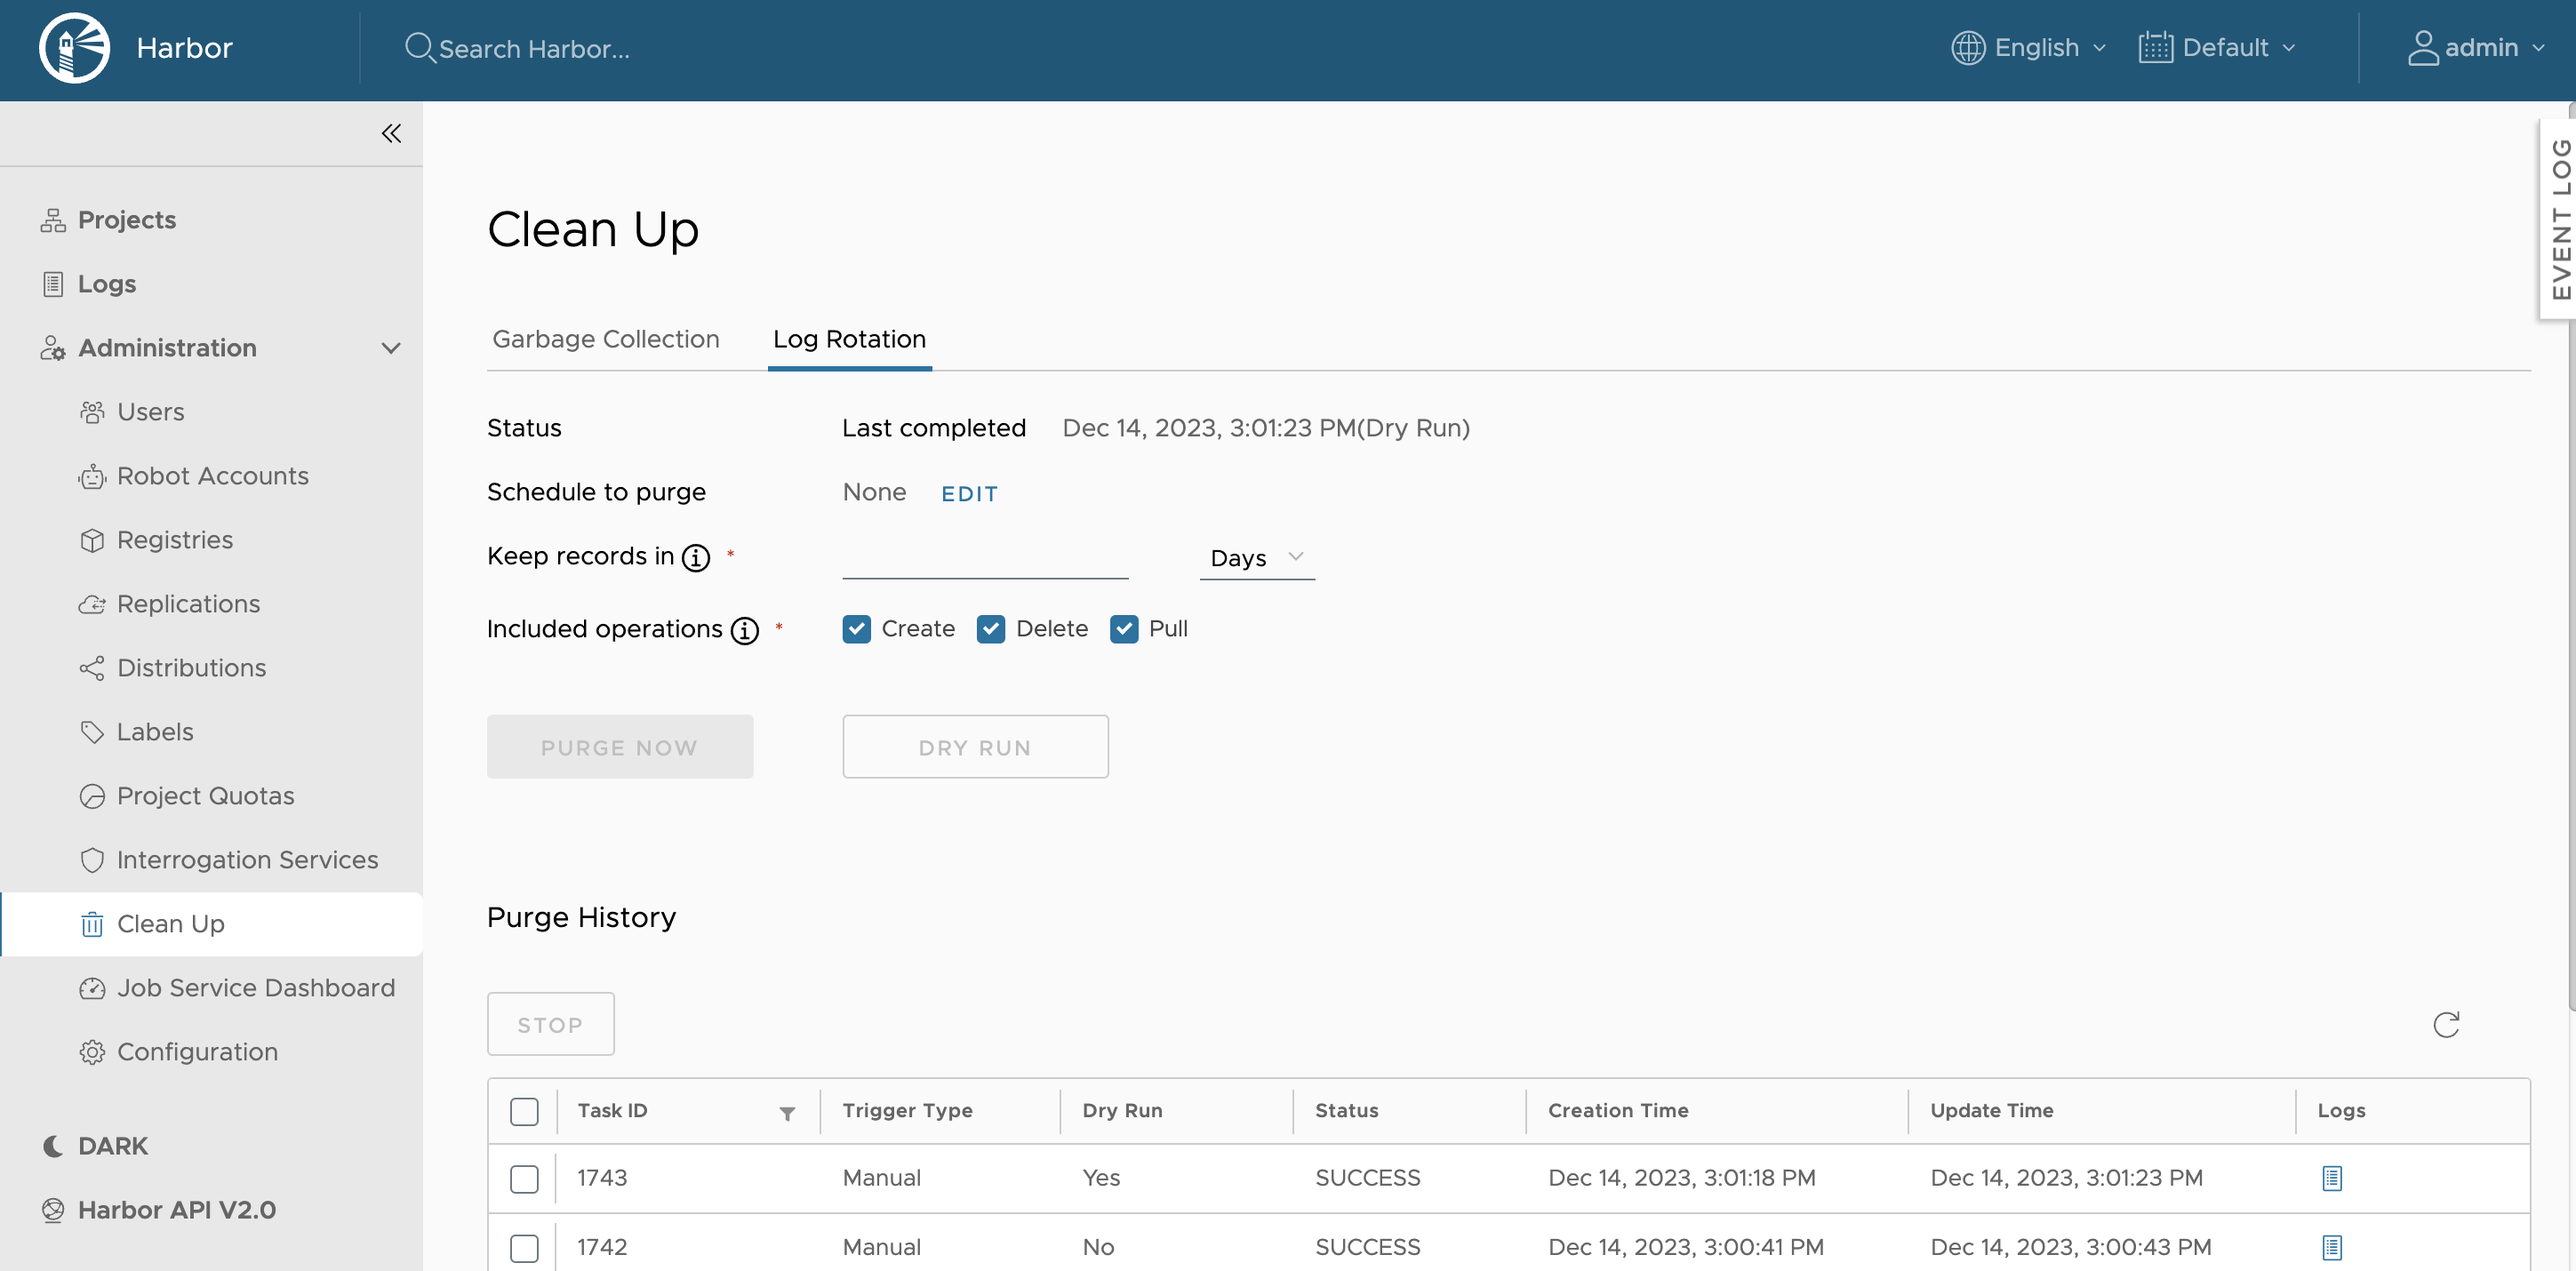
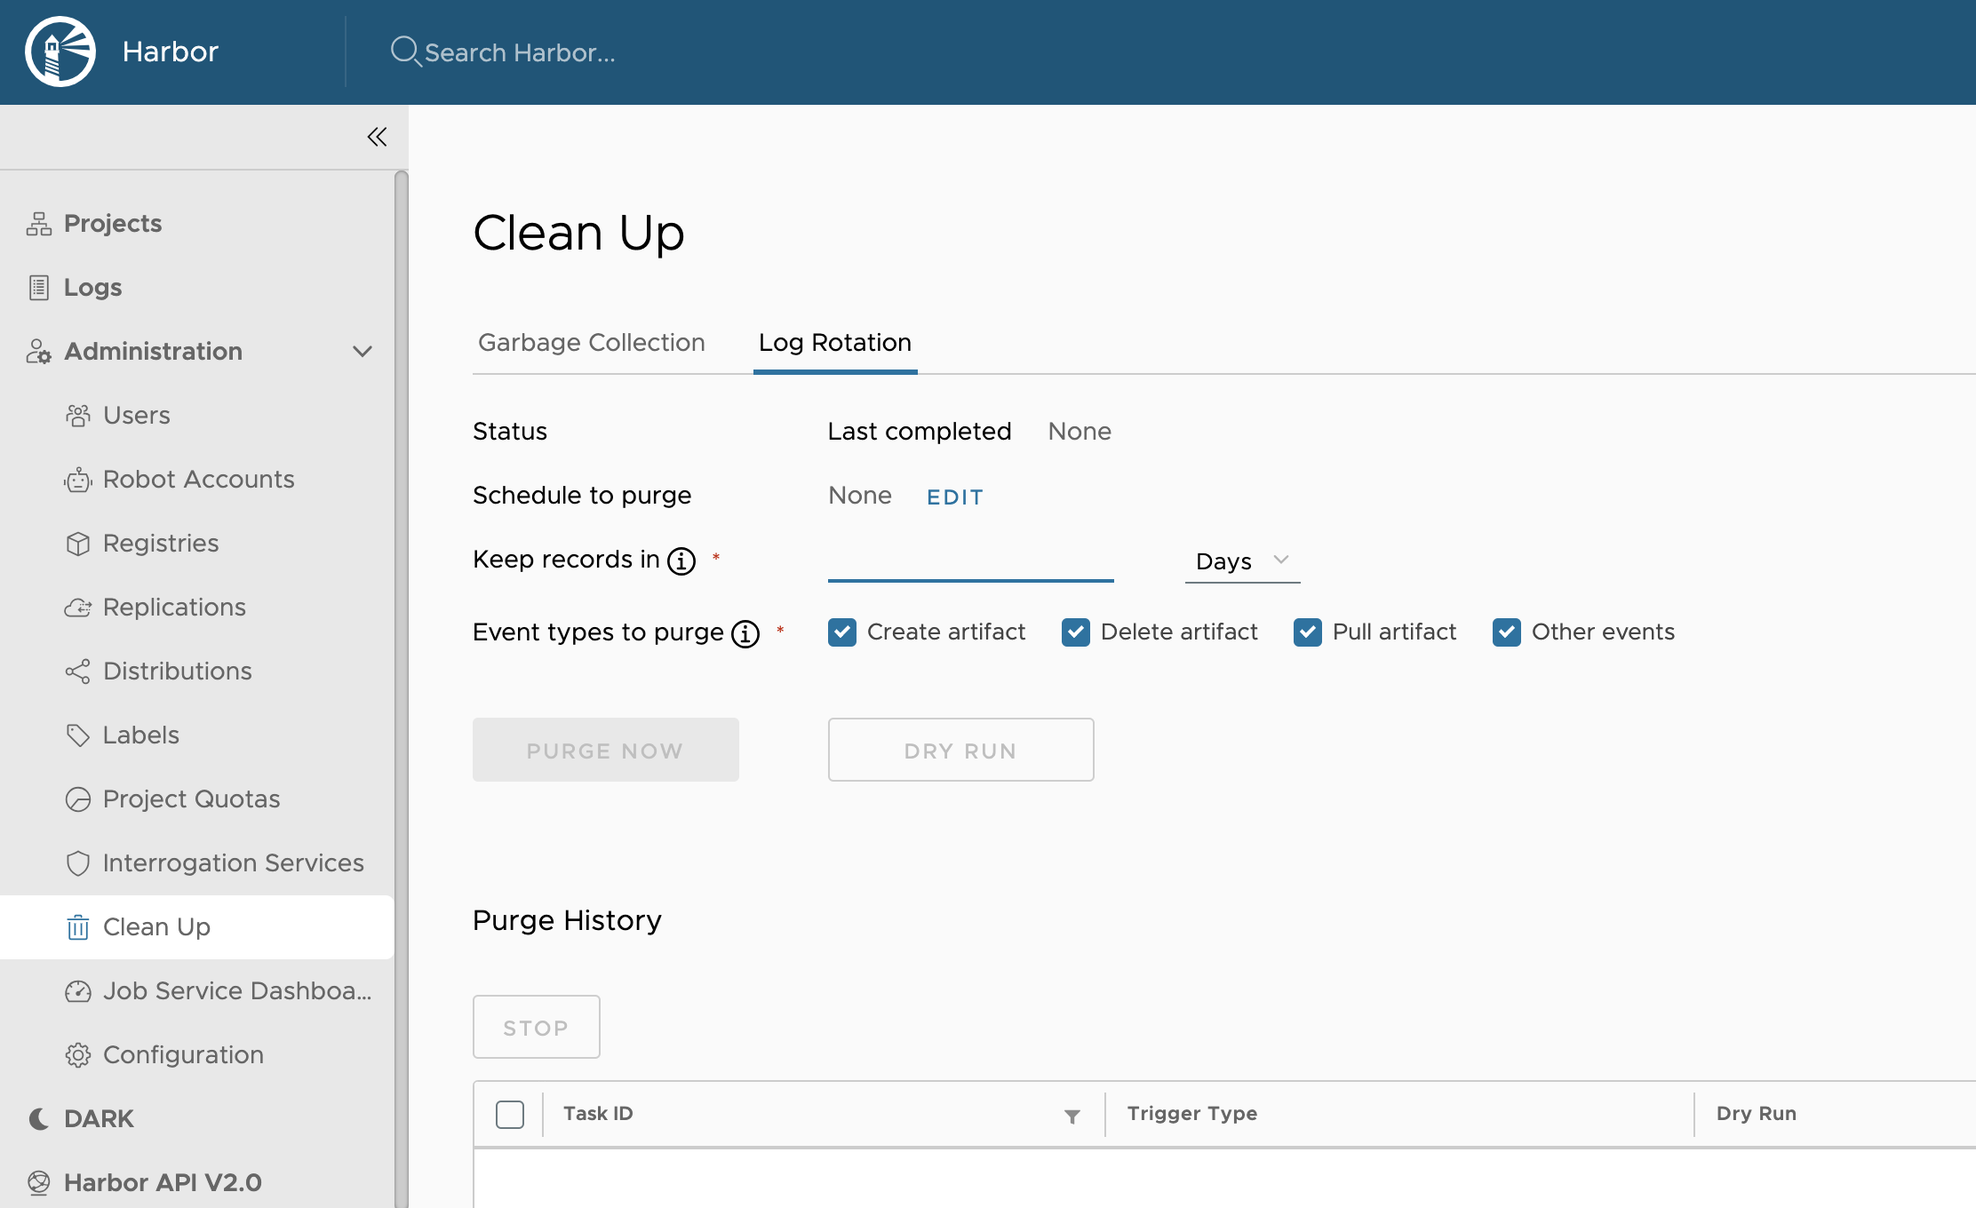
Add document for audit log
update img of the doc for log-rotation

diff --git a/docs/administration/audit-log/_index.md b/docs/administration/audit-log/_index.md
@@ -1,0 +1,50 @@
+---
+title: Audit Log
+weight: 41
+---
+
+Harbor tracks various types of operations and keeps a record of these actions in audit log. Administrators can view the audit log in the Harbor interface. there are two tabs in the audit log panel: the `Audit Logs` tab, which shows the latest audit log information after Harbor v2.13.0, and the `Audit Logs(Legacy)` tab, which displays legacy audit log information prior to Harbor v2.13.0. Users can query audit logs in these two tabs by specifying the operation type, the username, operation, resource, and resource type.
+
+![Audit logs table](../../img/auditlogs.png)
+
+Current supported event types in audit log include:
+
+- `pull artifact`
+- `push artifact`
+- `delete artifact`
+- `create user`
+- `update user`
+- `delete user`
+- `login user`
+- `logout user`
+- `change configuration`
+- `create project`
+- `delete project`
+- `create robot`
+- `delete robot`
+- `delete repository`
+
+## Audit Log table columns:
+
+The audit log table displays the following columns:
+
+- `Timestamp`: The time when the operation was performed.
+- `Username`: The user who performed the operation.
+- `Resource`: The resource that the operation was performed on.
+- `Resource Type`: The type of the resource.
+- `Operation`: The operation type.
+- `Operation Description` : The detail description of the operation.
+
+## Skip Audit Log Database
+
+If you have configured an endpoint to forward audit logs, select the checkbox to **Skip Audit Log Database**. When selected, Harbor will not keep any records of audit logs in its database, but will forward all logs to your configured endpoint immediately.
+
+![Skip Audit Log Database](../../img/skipauditlogdb.png)
+
+## Skip Audit Log Database for some specific event types
+
+If you want to skip audit log database for some specific event types, go to the `Administration` -> `Configuration` -> `System Settings` -> `Disable Audit Log Event Type` and check the event types you want to skip. when the event type is checked and configuration changed, the audit log of these event types will not be saved in the database. this configuration doesn't require audit log forwarding to be enabled.
+
+![Skip audit log](../../img/skipauditlog.png)
+
+

diff --git a/docs/administration/log-rotation/_index.md b/docs/administration/log-rotation/_index.md
@@ -3,7 +3,7 @@ title: Log Rotation
 weight: 42
 ---
 
-By default, Harbor tracks all image pull, push, and delete operations performed and keeps a record of these actions in a database. Harbor offers the ability to manage audit logs by configuring an audit log retention window and setting a syslog endpoint to forward audit logs.
+Harbor offers the ability to manage audit logs by configuring an audit log retention window and setting a syslog endpoint to forward audit logs.
 
 ## Schedule Log Purge
 
@@ -26,7 +26,7 @@ By default, Harbor tracks all image pull, push, and delete operations performed 
 
     ![Log rotation policy configuration](../../img/lr-policy-settings.png)
 
-1. Select the **Included Operations** for the purge. When **Create**, **Delete**, or **Pull** is selected, Harbor will include audit logs for those operations in the purge.
+1. Select the **Event types to purge** for the purge. When **Create artifact**, **Delete artifact**, or **Pull artifact** is selected, Harbor will include audit logs for those event types in the purge.
 1. Click **Save** to save your log rotation schedule.
 
 Use the **DRY RUN** option to test your purge settings. When you perform a dry run, Harbor will create a log with the estimated amount of audit logs that will be purged. You can view a dry run logs in the **Purge History** table.
